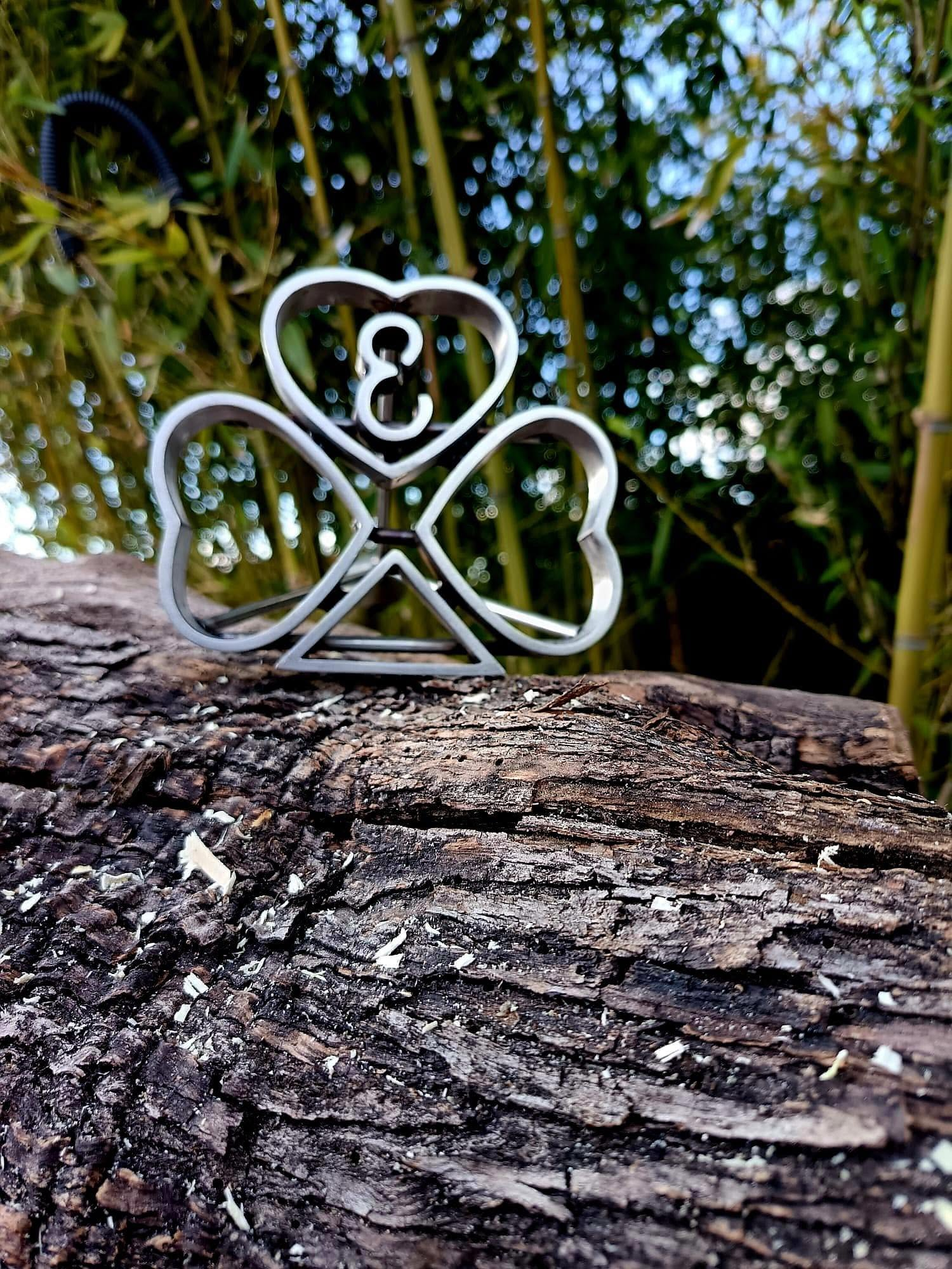
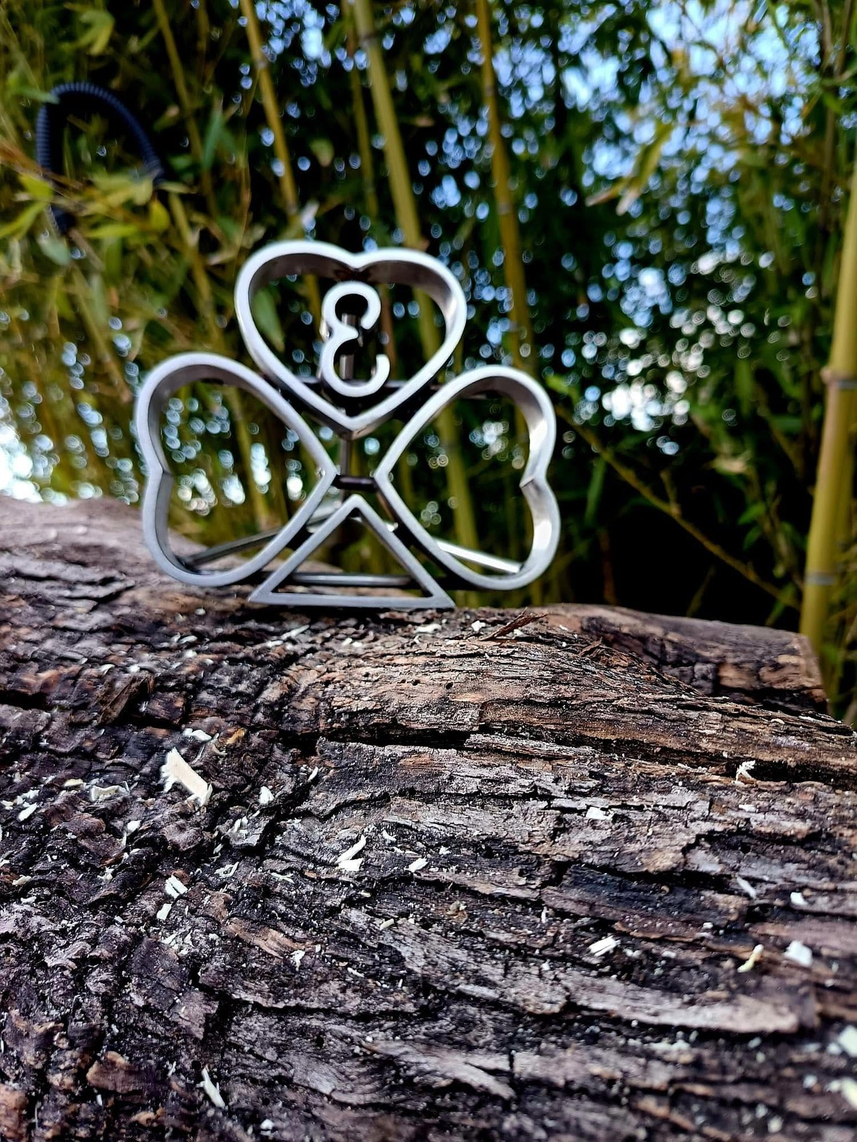
Añade la foto del hierro de la ganadería al bloque del nombre en La Yeguada

Changed region(s): [[0.6222, 0.5911, 0.6533, 0.6222]]

diff --git a/la-yeguada.html b/la-yeguada.html
@@ -10,7 +10,7 @@
 <link rel="preconnect" href="https://fonts.googleapis.com">
 <link rel="preconnect" href="https://fonts.gstatic.com" crossorigin>
 <link href="https://fonts.googleapis.com/css2?family=Cormorant+Garamond:ital,wght@0,400;0,500;0,600;1,400&family=Karla:wght@400;500;700&display=swap" rel="stylesheet">
-<link rel="stylesheet" href="css/estilo.css?v=00634eb4">
+<link rel="stylesheet" href="css/estilo.css?v=536cd955">
 </head>
 <body>
 
@@ -56,15 +56,19 @@
     alt="La familia de Yeguada Tres Tréboles montando a caballo por la sierra de Córdoba"></div>
 </div></section>
 
-<section class="fondo-papel"><div class="wrap">
-  <div class="prosa centrado">
-    <img src="img/marca/marca-negro.png" alt="" style="height:96px;margin-bottom:26px;opacity:.9">
-    <div class="et">El nombre</div>
-    <h2 class="tit">Tres Tréboles</h2>
+<section class="fondo-papel hierro"><div class="wrap dos">
+  <div class="foto-marco"><img src="img/yeguada/hierro.jpg"
+    alt="El hierro de Yeguada Tres Tréboles: tres tréboles en forma de corazón con el número tres"></div>
+  <div class="prosa">
+    <div class="et">El nombre y el hierro</div>
+    <h2 class="tit" style="margin-bottom:26px">Tres Tréboles</h2>
     <p class="destacado">"Yo he sido siempre aficionado al caballo, tengo tres niños,
       por eso la ganadería se llama Tres Tréboles."</p>
     <p>El sueño era de Pedro, pero el nombre es de ellos. Y a estas alturas los caballos ya son
       de todos. Por eso esto no es un negocio de paso, sino algo que queremos que dure.</p>
+    <p>De ahí sale el hierro: tres hojas de trébol dibujadas como corazones y el tres en el
+      centro. Es la marca con la que la yeguada figura en el Libro Genealógico y la que aparece
+      junto a nuestro nombre en la carta de cada ejemplar.</p>
   </div>
 </div></section>
 

diff --git a/caballos/amaranto-xxviii.html b/caballos/amaranto-xxviii.html
@@ -10,7 +10,7 @@
 <link rel="preconnect" href="https://fonts.googleapis.com">
 <link rel="preconnect" href="https://fonts.gstatic.com" crossorigin>
 <link href="https://fonts.googleapis.com/css2?family=Cormorant+Garamond:ital,wght@0,400;0,500;0,600;1,400&family=Karla:wght@400;500;700&display=swap" rel="stylesheet">
-<link rel="stylesheet" href="../css/estilo.css?v=00634eb4">
+<link rel="stylesheet" href="../css/estilo.css?v=536cd955">
 </head>
 <body class="sin-hero">
 

diff --git a/caballos/betica-vr.html b/caballos/betica-vr.html
@@ -10,7 +10,7 @@
 <link rel="preconnect" href="https://fonts.googleapis.com">
 <link rel="preconnect" href="https://fonts.gstatic.com" crossorigin>
 <link href="https://fonts.googleapis.com/css2?family=Cormorant+Garamond:ital,wght@0,400;0,500;0,600;1,400&family=Karla:wght@400;500;700&display=swap" rel="stylesheet">
-<link rel="stylesheet" href="../css/estilo.css?v=00634eb4">
+<link rel="stylesheet" href="../css/estilo.css?v=536cd955">
 </head>
 <body class="sin-hero">
 

diff --git a/caballos/bonachona-de-vinuesa.html b/caballos/bonachona-de-vinuesa.html
@@ -10,7 +10,7 @@
 <link rel="preconnect" href="https://fonts.googleapis.com">
 <link rel="preconnect" href="https://fonts.gstatic.com" crossorigin>
 <link href="https://fonts.googleapis.com/css2?family=Cormorant+Garamond:ital,wght@0,400;0,500;0,600;1,400&family=Karla:wght@400;500;700&display=swap" rel="stylesheet">
-<link rel="stylesheet" href="../css/estilo.css?v=00634eb4">
+<link rel="stylesheet" href="../css/estilo.css?v=536cd955">
 </head>
 <body class="sin-hero">
 

diff --git a/caballos/canastera-tres-t.html b/caballos/canastera-tres-t.html
@@ -10,7 +10,7 @@
 <link rel="preconnect" href="https://fonts.googleapis.com">
 <link rel="preconnect" href="https://fonts.gstatic.com" crossorigin>
 <link href="https://fonts.googleapis.com/css2?family=Cormorant+Garamond:ital,wght@0,400;0,500;0,600;1,400&family=Karla:wght@400;500;700&display=swap" rel="stylesheet">
-<link rel="stylesheet" href="../css/estilo.css?v=00634eb4">
+<link rel="stylesheet" href="../css/estilo.css?v=536cd955">
 </head>
 <body class="sin-hero">
 

diff --git a/caballos/castorena-ix.html b/caballos/castorena-ix.html
@@ -10,7 +10,7 @@
 <link rel="preconnect" href="https://fonts.googleapis.com">
 <link rel="preconnect" href="https://fonts.gstatic.com" crossorigin>
 <link href="https://fonts.googleapis.com/css2?family=Cormorant+Garamond:ital,wght@0,400;0,500;0,600;1,400&family=Karla:wght@400;500;700&display=swap" rel="stylesheet">
-<link rel="stylesheet" href="../css/estilo.css?v=00634eb4">
+<link rel="stylesheet" href="../css/estilo.css?v=536cd955">
 </head>
 <body class="sin-hero">
 

diff --git a/caballos/faraona-mfe.html b/caballos/faraona-mfe.html
@@ -10,7 +10,7 @@
 <link rel="preconnect" href="https://fonts.googleapis.com">
 <link rel="preconnect" href="https://fonts.gstatic.com" crossorigin>
 <link href="https://fonts.googleapis.com/css2?family=Cormorant+Garamond:ital,wght@0,400;0,500;0,600;1,400&family=Karla:wght@400;500;700&display=swap" rel="stylesheet">
-<link rel="stylesheet" href="../css/estilo.css?v=00634eb4">
+<link rel="stylesheet" href="../css/estilo.css?v=536cd955">
 </head>
 <body class="sin-hero">
 

diff --git a/caballos/hacendada-mfe.html b/caballos/hacendada-mfe.html
@@ -10,7 +10,7 @@
 <link rel="preconnect" href="https://fonts.googleapis.com">
 <link rel="preconnect" href="https://fonts.gstatic.com" crossorigin>
 <link href="https://fonts.googleapis.com/css2?family=Cormorant+Garamond:ital,wght@0,400;0,500;0,600;1,400&family=Karla:wght@400;500;700&display=swap" rel="stylesheet">
-<link rel="stylesheet" href="../css/estilo.css?v=00634eb4">
+<link rel="stylesheet" href="../css/estilo.css?v=536cd955">
 </head>
 <body class="sin-hero">
 

diff --git a/caballos/japonesa-xiv.html b/caballos/japonesa-xiv.html
@@ -10,7 +10,7 @@
 <link rel="preconnect" href="https://fonts.googleapis.com">
 <link rel="preconnect" href="https://fonts.gstatic.com" crossorigin>
 <link href="https://fonts.googleapis.com/css2?family=Cormorant+Garamond:ital,wght@0,400;0,500;0,600;1,400&family=Karla:wght@400;500;700&display=swap" rel="stylesheet">
-<link rel="stylesheet" href="../css/estilo.css?v=00634eb4">
+<link rel="stylesheet" href="../css/estilo.css?v=536cd955">
 </head>
 <body class="sin-hero">
 

diff --git a/caballos/nerva-navero.html b/caballos/nerva-navero.html
@@ -10,7 +10,7 @@
 <link rel="preconnect" href="https://fonts.googleapis.com">
 <link rel="preconnect" href="https://fonts.gstatic.com" crossorigin>
 <link href="https://fonts.googleapis.com/css2?family=Cormorant+Garamond:ital,wght@0,400;0,500;0,600;1,400&family=Karla:wght@400;500;700&display=swap" rel="stylesheet">
-<link rel="stylesheet" href="../css/estilo.css?v=00634eb4">
+<link rel="stylesheet" href="../css/estilo.css?v=536cd955">
 </head>
 <body class="sin-hero">
 

diff --git a/caballos/nervion-ii-tres-t.html b/caballos/nervion-ii-tres-t.html
@@ -10,7 +10,7 @@
 <link rel="preconnect" href="https://fonts.googleapis.com">
 <link rel="preconnect" href="https://fonts.gstatic.com" crossorigin>
 <link href="https://fonts.googleapis.com/css2?family=Cormorant+Garamond:ital,wght@0,400;0,500;0,600;1,400&family=Karla:wght@400;500;700&display=swap" rel="stylesheet">
-<link rel="stylesheet" href="../css/estilo.css?v=00634eb4">
+<link rel="stylesheet" href="../css/estilo.css?v=536cd955">
 </head>
 <body class="sin-hero">
 

diff --git a/caballos/nervion-tres-treboles.html b/caballos/nervion-tres-treboles.html
@@ -10,7 +10,7 @@
 <link rel="preconnect" href="https://fonts.googleapis.com">
 <link rel="preconnect" href="https://fonts.gstatic.com" crossorigin>
 <link href="https://fonts.googleapis.com/css2?family=Cormorant+Garamond:ital,wght@0,400;0,500;0,600;1,400&family=Karla:wght@400;500;700&display=swap" rel="stylesheet">
-<link rel="stylesheet" href="../css/estilo.css?v=00634eb4">
+<link rel="stylesheet" href="../css/estilo.css?v=536cd955">
 </head>
 <body class="sin-hero">
 
